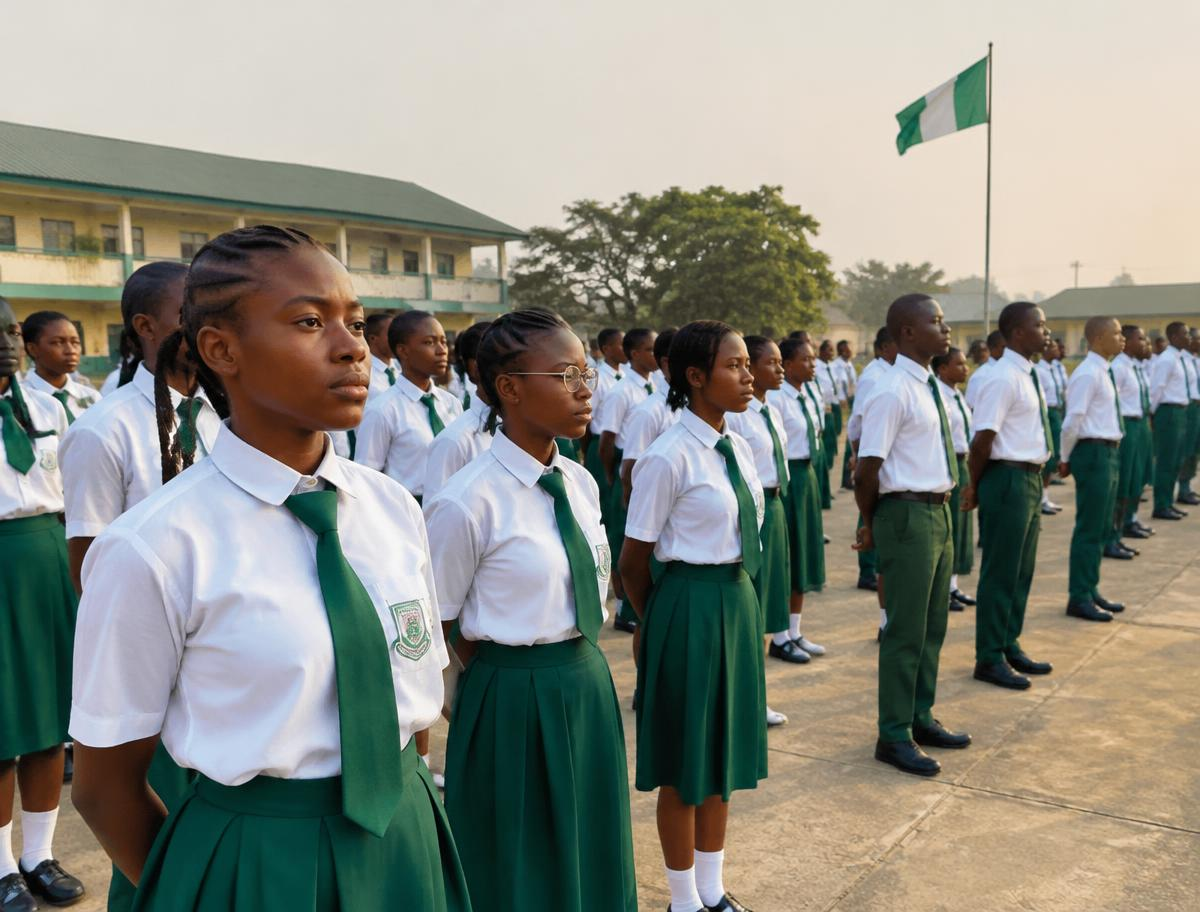
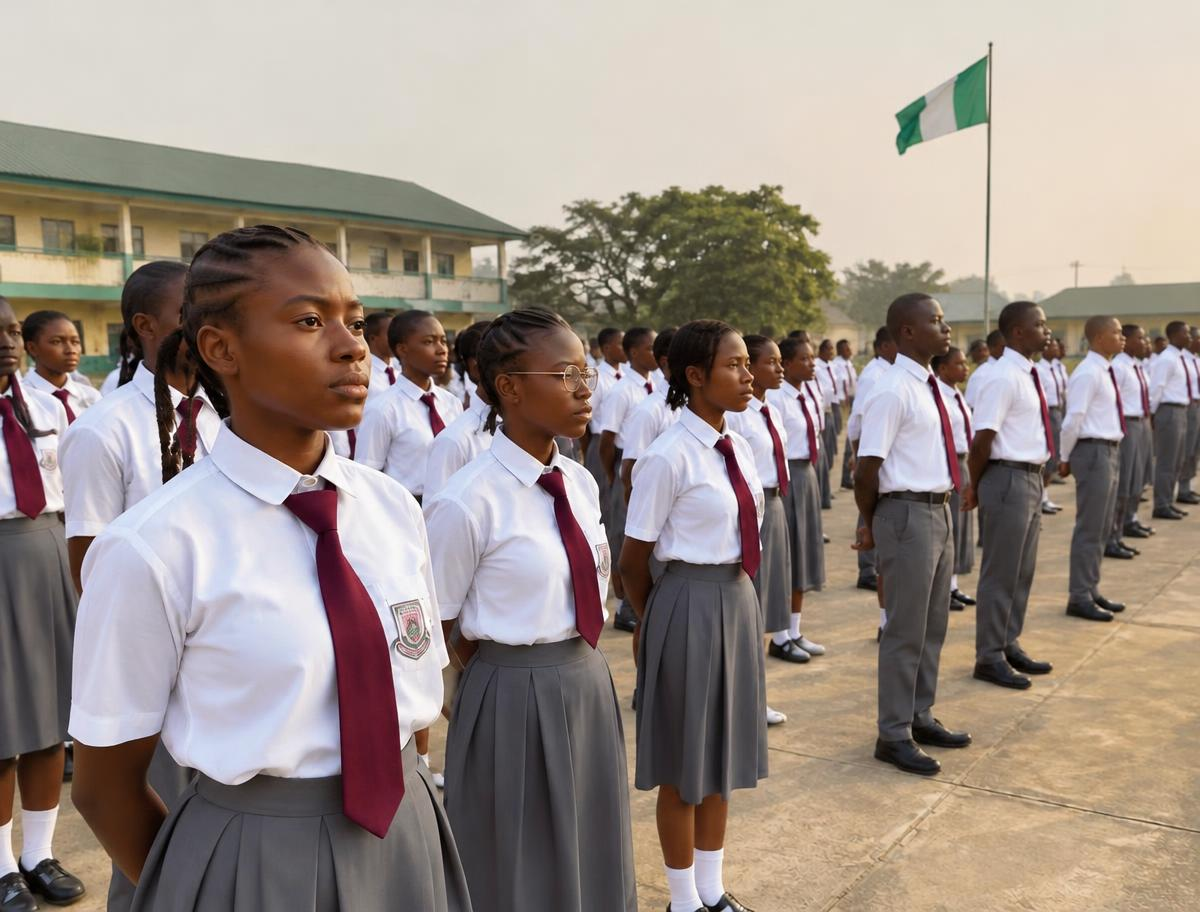
Edfan
Edfan

diff --git a/About.html b/About.html
@@ -1,50 +1,210 @@
 <!DOCTYPE html>
 <html lang="en">
+
 <head>
     <meta charset="UTF-8">
     <meta name="viewport" content="width=device-width, initial-scale=1.0">
     <title>About Edfan College</title>
     <link rel="stylesheet" href="About.css">
-</head> 
+</head>
+
 <body id="homepage">
     <header>
-        <div class="sticky-nav">
-        <a href="#home"><img class="sticky-image" src="Edfan new logo.jpg" alt="Edfan College Logo"></a>
-        <a class="nav-logo" href="#home">
-            <h2 class="sticky-h2">Edfan College</h2>
-        </a>
-        <button class="nav-toggle" type="button" aria-expanded="false" aria-controls="primary-navigation"
-            aria-label="Open navigation menu">
-            <span></span>
-            <span></span>
-            <span></span>
-        </button>
-        <nav id="primary-navigation">
-            <ul>
-                <li><a href="#home">Home</a></li>
-                <li><a href="#about">About</a></li>
-                <li><a href="#staff-directory">Staff Directory</a></li>
-                <li><a href="#admission">Admissions</a></li>
-                <li><a href="#academics">Academics</a></li>
-                <li><a href="#facilities">Facilities</a></li>
-                <li><a href="#contact">Contact</a></li>
-            </ul>
-        </nav>
-    </div>
+        <div class="info-header">
+            <p class="email-header">&#9993; edfan_college@yahoo.co.uk</p>
+            <p class="phone-header">&#9742; +234-805-300-8092</p>
+            <button id="apply-button" type="button" data-target="#admission">Apply Now</button>
+        </div>
     </header>
+        <div class="sticky-nav">
+            <a href="#home"><img class="sticky-image" src="Edfan new logo.jpg" alt="Edfan College Logo"></a>
+            <a class="nav-logo" href="#home">
+                <h2 class="sticky-h2">Edfan College</h2>
+            </a>
+            <button class="nav-toggle" type="button" aria-expanded="false" aria-controls="primary-navigation"
+                aria-label="Open navigation menu">
+                <span></span>
+                <span></span>
+                <span></span>
+            </button>
+            <nav id="primary-navigation">
+                <ul>
+                    <li><a href="#home">Home</a></li>
+                    <li><a href="#about">About</a></li>
+                    <li><a href="#staff-directory">Staff Directory</a></li>
+                    <li><a href="#admission">Admissions</a></li>
+                    <li><a href="#academics">Academics</a></li>
+                    <li><a href="#facilities">Facilities</a></li>
+                    <li><a href="#contact">Contact</a></li>
+                </ul>
+            </nav>
+        </div>
+
     <main>
         <section>
-        <div></div>
-        <div><div>
+            <div></div>
             <div>
-                <h3>About Edfan College</h3>
-                <h1>Like a mustard seed, a small beginning with a great purpose.</h1>
-                <p>Established in 2008 and fully open since 2012, Edfan College in Ikorodu, Lagos raises young people with sharp minds, strong values and the confidence to stand among the best in the world.</p>
-                </div>
+                <div>
+                    <div>
+                        <h3>About Edfan College</h3>
+                        <h1>Like a mustard seed, a small beginning with a great purpose.</h1>
+                        <p>Established in 2008 and fully open since 2012, Edfan College in Ikorodu, Lagos raises young
+                            people with sharp minds, strong values and the confidence to stand among the best in the
+                            world.</p>
+                    </div>
+                    <div>
+                        <button id="founder-button">Founder</button>
+                        <div id="principal-button">Principal</div>
+                        <div id="mission-button">Mission/Vision</div>
+                        <div id="values-button">Values</div>
+                        <div id="board-button">Board</div>
+                    </div>
         </section>
+
+        <article>
+            <h3>Founder’s message</h3>
+            <h1>Raising a generation of patriotic, value-driven leaders.</h1>
+            <img src="Edfan founder.jpg" alt="Edfan College Founder">
+            <p>Edfan College was born out of a burning passion to provide quality, self-reliant secondary education for
+                children in Nigeria. We believe in raising patriotic citizens with the virtues and values to place our
+                nation alongside the most respected in the world.
+
+                That is why Edfan sits in a calm, secure environment, free from everyday distractions. Because
+                surroundings shape the mind, attitude and growth of a child, we have invested in beautiful
+                infrastructure and facilities that inspire learning.
+
+                Our founders are successful professionals who carefully appoint teachers and staff who are competent,
+                efficient and committed. Ours is a learner-centred college: every day, our staff show kindness, empathy
+                and care to the students in their charge. Our trained counsellors guide each child in subject choices,
+                relationships and building healthy self-esteem.
+
+                Led by an experienced and devoted educationist, our team looks beyond exam success. We nurture total
+                persons, prepared for a brighter future and academic excellence.
+
+                To every parent who has trusted us with their child: thank you. Edfan College remains a testimony of
+                excellence, true to our slogan, “A Brighter Future Assured!”
+
+                Mr Abade Endurance Chukwudi, Founder</p>
+        </article>
+
+        <article>
+            <h3>Principal’s message</h3>
+            <h1>Every child has the potential to excel.</h1>
+            <div>
+                <p>“Education is a partnership between us and the parents.”</p>
+            </div>
+            <img src="Edfan principal.jpg" alt="Edfan College principal">
+            <p>Edfan College was born out of a burning passion to provide quality, self-reliant secondary education for
+                children in Nigeria. We believe in raising patriotic citizens with the virtues and values to place our
+                nation alongside the most respected in the world.
+
+                That is why Edfan sits in a calm, secure environment, free from everyday distractions. Because
+                surroundings shape the mind, attitude and growth of a child, we have invested in beautiful
+                infrastructure and facilities that inspire learning.
+
+                Our founders are successful professionals who carefully appoint teachers and staff who are competent,
+                efficient and committed. Ours is a learner-centred college: every day, our staff show kindness, empathy
+                and care to the students in their charge. Our trained counsellors guide each child in subject choices,
+                relationships and building healthy self-esteem.
+
+                Led by an experienced and devoted educationist, our team looks beyond exam success. We nurture total
+                persons, prepared for a brighter future and academic excellence.
+
+                To every parent who has trusted us with their child: thank you. Edfan College remains a testimony of
+                excellence, true to our slogan, “A Brighter Future Assured!”
+
+                Mr Abade Endurance Chukwudi, Founder</p>
+        </article>
+
+        <section>
+            <div>
+            <h3>Our Mission</h3>
+            </div>
+            <div>
+                <p>To develop young boys and girls with creative minds, a sense of understanding and compassion for others.</p>
+            </div>
+
+             <div>
+            <h3>Our Vision</h3>
+            </div>
+            <div>
+                <p>To be a great school where students are inspired to achieve excellence and make a difference globally.</p>
+            </div>
+        </section>
+
+       <section>
+        <h3>Core values</h3>
+        <h2>Seven values every Edfan student carries for life.</h2>
+
+        <div>
+            <p>01</p>
+            <p>God first</p>
+        </div>
+
+         <div>
+            <p>02</p>
+            <p>Hard work</p>
+        </div>
+
+         <div>
+            <p>03</p>
+            <p>Self-discipline</p>
+        </div>
+
+         <div>
+            <p>04</p>
+            <p>Team spirit</p>
+        </div>
+
+         <div>
+            <p>05</p>
+            <p>Humility</p>
+        </div>
+
+         <div>
+            <p>06</p>
+            <p>Integrity</p>
+        </div>
+
+         <div>
+            <p>07</p>
+            <p>Courtesy</p>
+        </div>
+       </section>
+
+       <article>
+        <img src="assembly.jpg">
+        <div>
+            <h3>Board of Governors</h3>
+            <h2>Guided by experienced, dedicated professionals.</h2>
+            <p>Edfan College is steered by the mission and vision of its Board of Governors, a team of skilled and experienced professionals in their chosen fields.</p>
+        </div>
+
+        <div>
+            <img src="founder imag.jpg" alt="founder pics">
+            <div>
+                <p>Mr. Abade Endurance Chukwudi</p>
+                <p>Proprietor / CEO</p>
+                <p>Consultant</p>
+            </div>
+        </div>
+
+         <div>
+            <img src="principal imag.jpg" alt="principal pics">
+            <div>
+                <p>Mrs. Abade Fanny Ogaga</p>
+                <p>Proprietress / Principal</p>
+                <p>Educationist</p>
+            </div>
+        </div>
+       </article>
+
+       <section>
+        <h2>Ready to join the Edfan family?</h2>
+        <p>Admissions are open for Junior and Senior School.</p>
+        <button>Apply Now!</button>
+       </section> 
     </main>
-
-
 
     <footer id="contact">
         <div class="footer-brand">
@@ -80,4 +240,5 @@
     </footer>
     <script src="About.js"></script>
 </body>
+
 </html>

diff --git a/Edfanhome.css b/Edfanhome.css
@@ -238,7 +238,7 @@ nav a:hover {
     border-radius: 10px;
     width: 80%;
     height: 65%;
-    padding: 0px;
+    padding:  0;
     box-sizing: border-box;
     width: min(90%, 1000px);
     height: auto;
@@ -246,8 +246,8 @@ nav a:hover {
 }
 
 .hero-section {
-    height: min(100svh, 900px);
-    min-height: 560px;
+    height: auto;
+    min-height: min(100svh, 900px);
 }
 
 
@@ -292,6 +292,8 @@ nav a:hover {
 
 .hero-actions {
     position: relative;
+    margin-top: -50px;
+    margin-bottom: 30px;
     transform: translateX(-12px);
 }
 
@@ -1449,8 +1451,7 @@ footer a:focus-visible {
     
 
 .hero-h2 {
-    position: relative;
-    top: -40px;
+    
     z-index: 2;
     color: white;
     margin: 0;
@@ -1460,8 +1461,9 @@ footer a:focus-visible {
     color: rgb(192, 25, 25);
     text-shadow: 1px 1px 1px rgb(0, 0, 0);
     font-family: 'poppins';
-
 }
+
+
 
 .hero-p1 {
     position: relative;
@@ -1781,43 +1783,46 @@ footer a:focus-visible {
     }
 
     .hero-h1 {
-        margin-top: 16px;
-        font-size: 130px;
+        margin-top: -10px;
+        font-size: 100px;
         line-height: normal;
     }
 
     .hero-h2 {
-        top: -40px;
+        margin-top: -60px;
         padding-right: 155px;
-        font-size: 60px;
+        font-size: 40px;
         line-height: normal;
     }
 
     .hero-p1 {
-        top: -30px;
+        top: -65px;
         max-width: none;
         margin: 0 0 0 30px;
-        font-size: 15px;
+        font-size: 12px;
         line-height: normal;
     }
 
     .hero-p2 {
-        top: -40px;
+        top: -75px;
         max-width: none;
-        margin: 14px 0 -20px 192px;
-        font-size: 15px;
+        margin: 14px 0 0px 192px;
+        font-size: 12px;
         line-height: normal;
     }
 
     #hero-start {
-        margin: 0 8px 0 100px;
-        padding: 18px 27px;
-        font-size: 16.2px;
+        margin: 0px 8px 0 100px;
+        padding: 13px 22px;
+        font-size: 13.2px;
     }
 
     #hero-discover {
         margin: 0 100px 0 0;
-        padding: 18px 27px;
-        font-size: 16.2px;
+        padding: 11px 22px;
+        font-size: 13.2px;
+    }
+    
+
     }
 }

diff --git a/index.html b/index.html
@@ -56,13 +56,14 @@
             <button class="slide-btn next" aria-label="Next image">&#10095;</button>
 
             <div class="hero-content">
-
+                <div  class="hero-text">
                 <h1 class="hero-h1">EDFAN</h1>
                 <h2 class="hero-h2">COLLEGE</h2>
                 <p class="hero-p1">A co-educational day secondary school in Ikorodu, Lagos.</p>
                 <p class="hero-p2">Where every child is known for an outstanding results, and every future is
                     bright.
                 </p>
+                </div>
 
                 <div class="hero-actions">
                     <button id="hero-start">How to Apply →</button>
